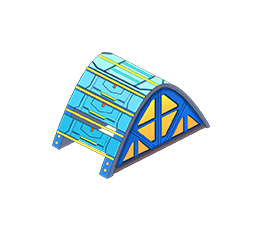
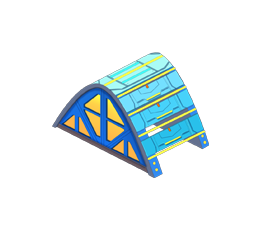
bridges position

Changed region(s): [[0.1825, 0.2112, 0.7909, 0.7845]]

diff --git a/src/buildings/bridges/index.tsx b/src/buildings/bridges/index.tsx
@@ -8,18 +8,18 @@ import { ZIndexes } from '../../components/root-component/z-indexes-enum';
 const StyledConfig = {
   firstBridge: {
     position: 'absolute',
-    left: '56%',
-    top: '33.5%',
+    left: '38.5%',
+    top: ' 48.5%',
   } as React.CSSProperties,
   secondBridge: {
     position: 'absolute',
-    left: '56.7%',
-    top: '29.2%',
+    left: '54%',
+    top: '29.15%',
   } as React.CSSProperties,
   thirdBridge: {
     position: 'absolute',
-    left: '54.82%',
-    top: '41.5%',
+    left: '53.3%',
+    top: '40.5%',
     zIndex: ZIndexes.DECORATION,
   } as React.CSSProperties,
 };
